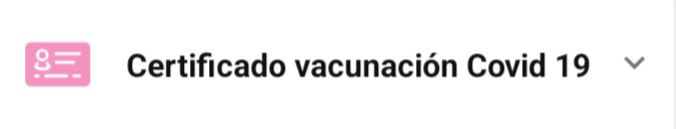
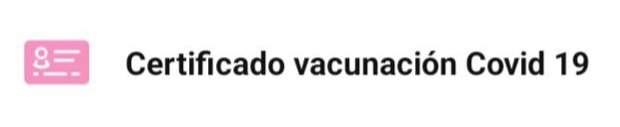
edit_pagedocuments

Changed region(s): [[0.1839, 0.378, 0.9806, 0.6142], [0.0306, 0.3071, 0.1532, 0.685]]

diff --git a/lib/Pages/Documents.dart b/lib/Pages/Documents.dart
@@ -13,24 +13,40 @@ class Documents extends StatelessWidget {
       ),
       body: Column(
         children: [
-          Card(
-            child: Image(image: AssetImage("assets/image2.jpg")),
-          ),
-          Card(
-            child: Image(image: AssetImage("assets/image3.jpg")),
-          ),
-          Card(
-            child: Image(image: AssetImage("assets/image4.jpg")),
-          ),
           ExpansionPanelList(
             children: [
               ExpansionPanel(
                   headerBuilder: (context, isExpanded) {
-                    return Text("heloo");
+                    return Image(image: AssetImage("assets/image7.jpg"));
                   },
-                  body: Text("pioo")),
+                  body: Container(
+                    width: 100,
+                    height: 100,
+                    color: Colors.amber,
+                  ),
+                  isExpanded: false),
+              ExpansionPanel(
+                  headerBuilder: (context, isExpanded) {
+                    return Image(image: AssetImage("assets/image2.jpg"));
+                  },
+                  body: Container(
+                    width: 100,
+                    height: 100,
+                    color: Colors.amber,
+                  ),
+                  isExpanded: false),
+              ExpansionPanel(
+                  headerBuilder: (context, isExpanded) {
+                    return Image(image: AssetImage("assets/image3.jpg"));
+                  },
+                  body: Container(
+                    width: 100,
+                    height: 100,
+                    color: Colors.amber,
+                  ),
+                  isExpanded: false),
             ],
-          )
+          ),
         ],
       ),
     );
